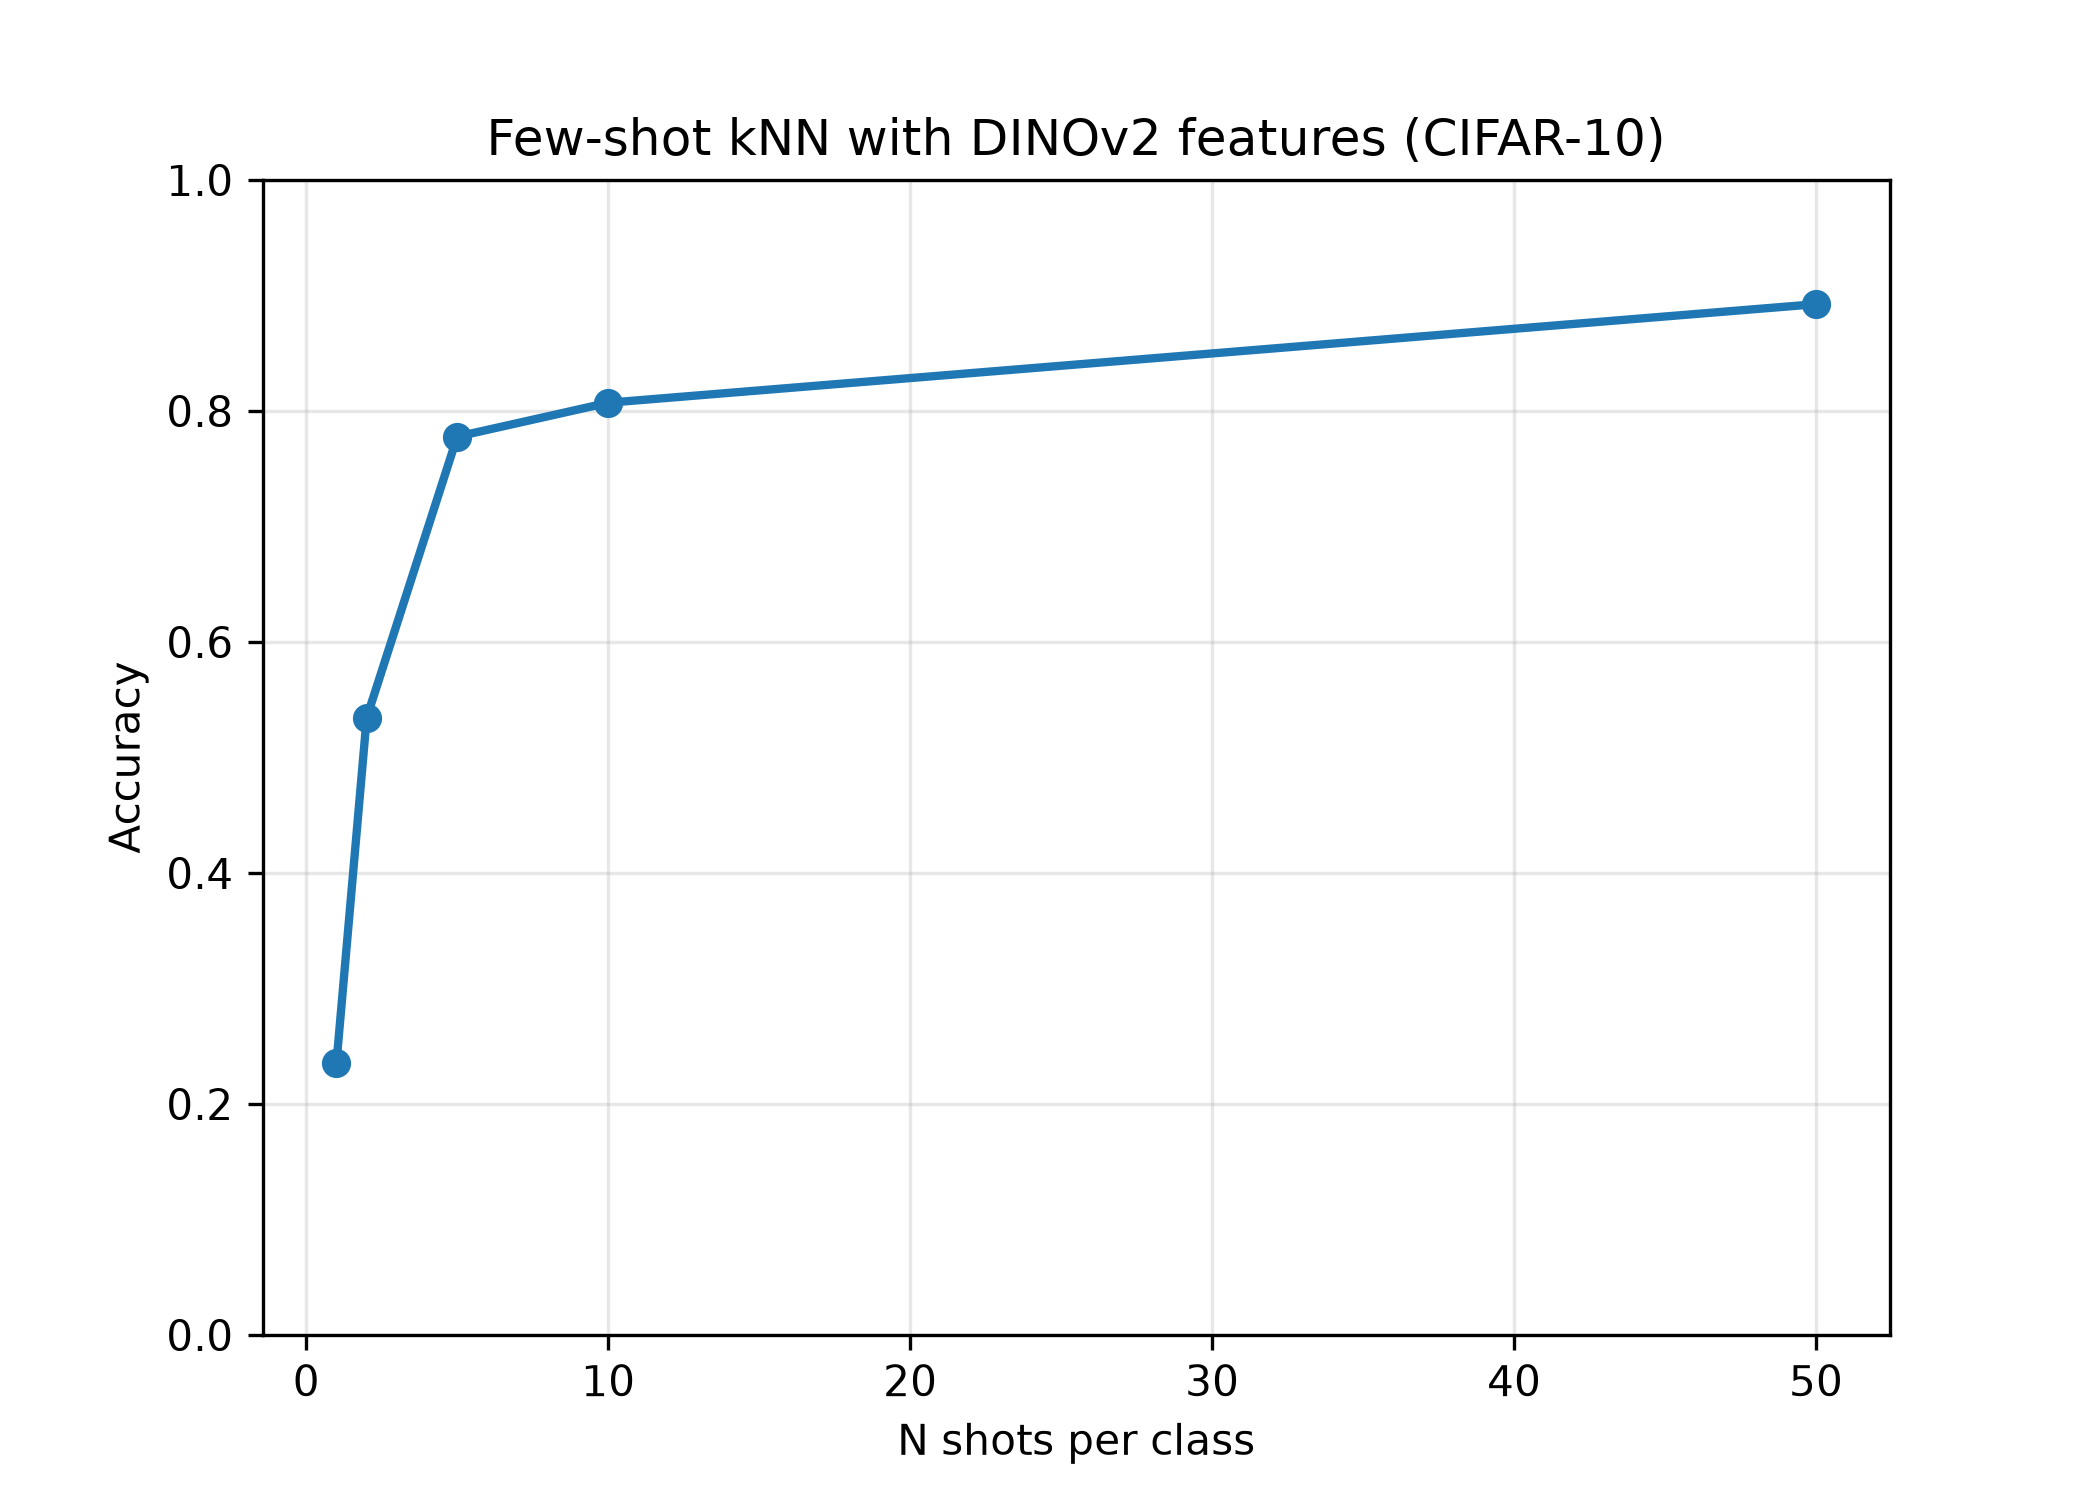
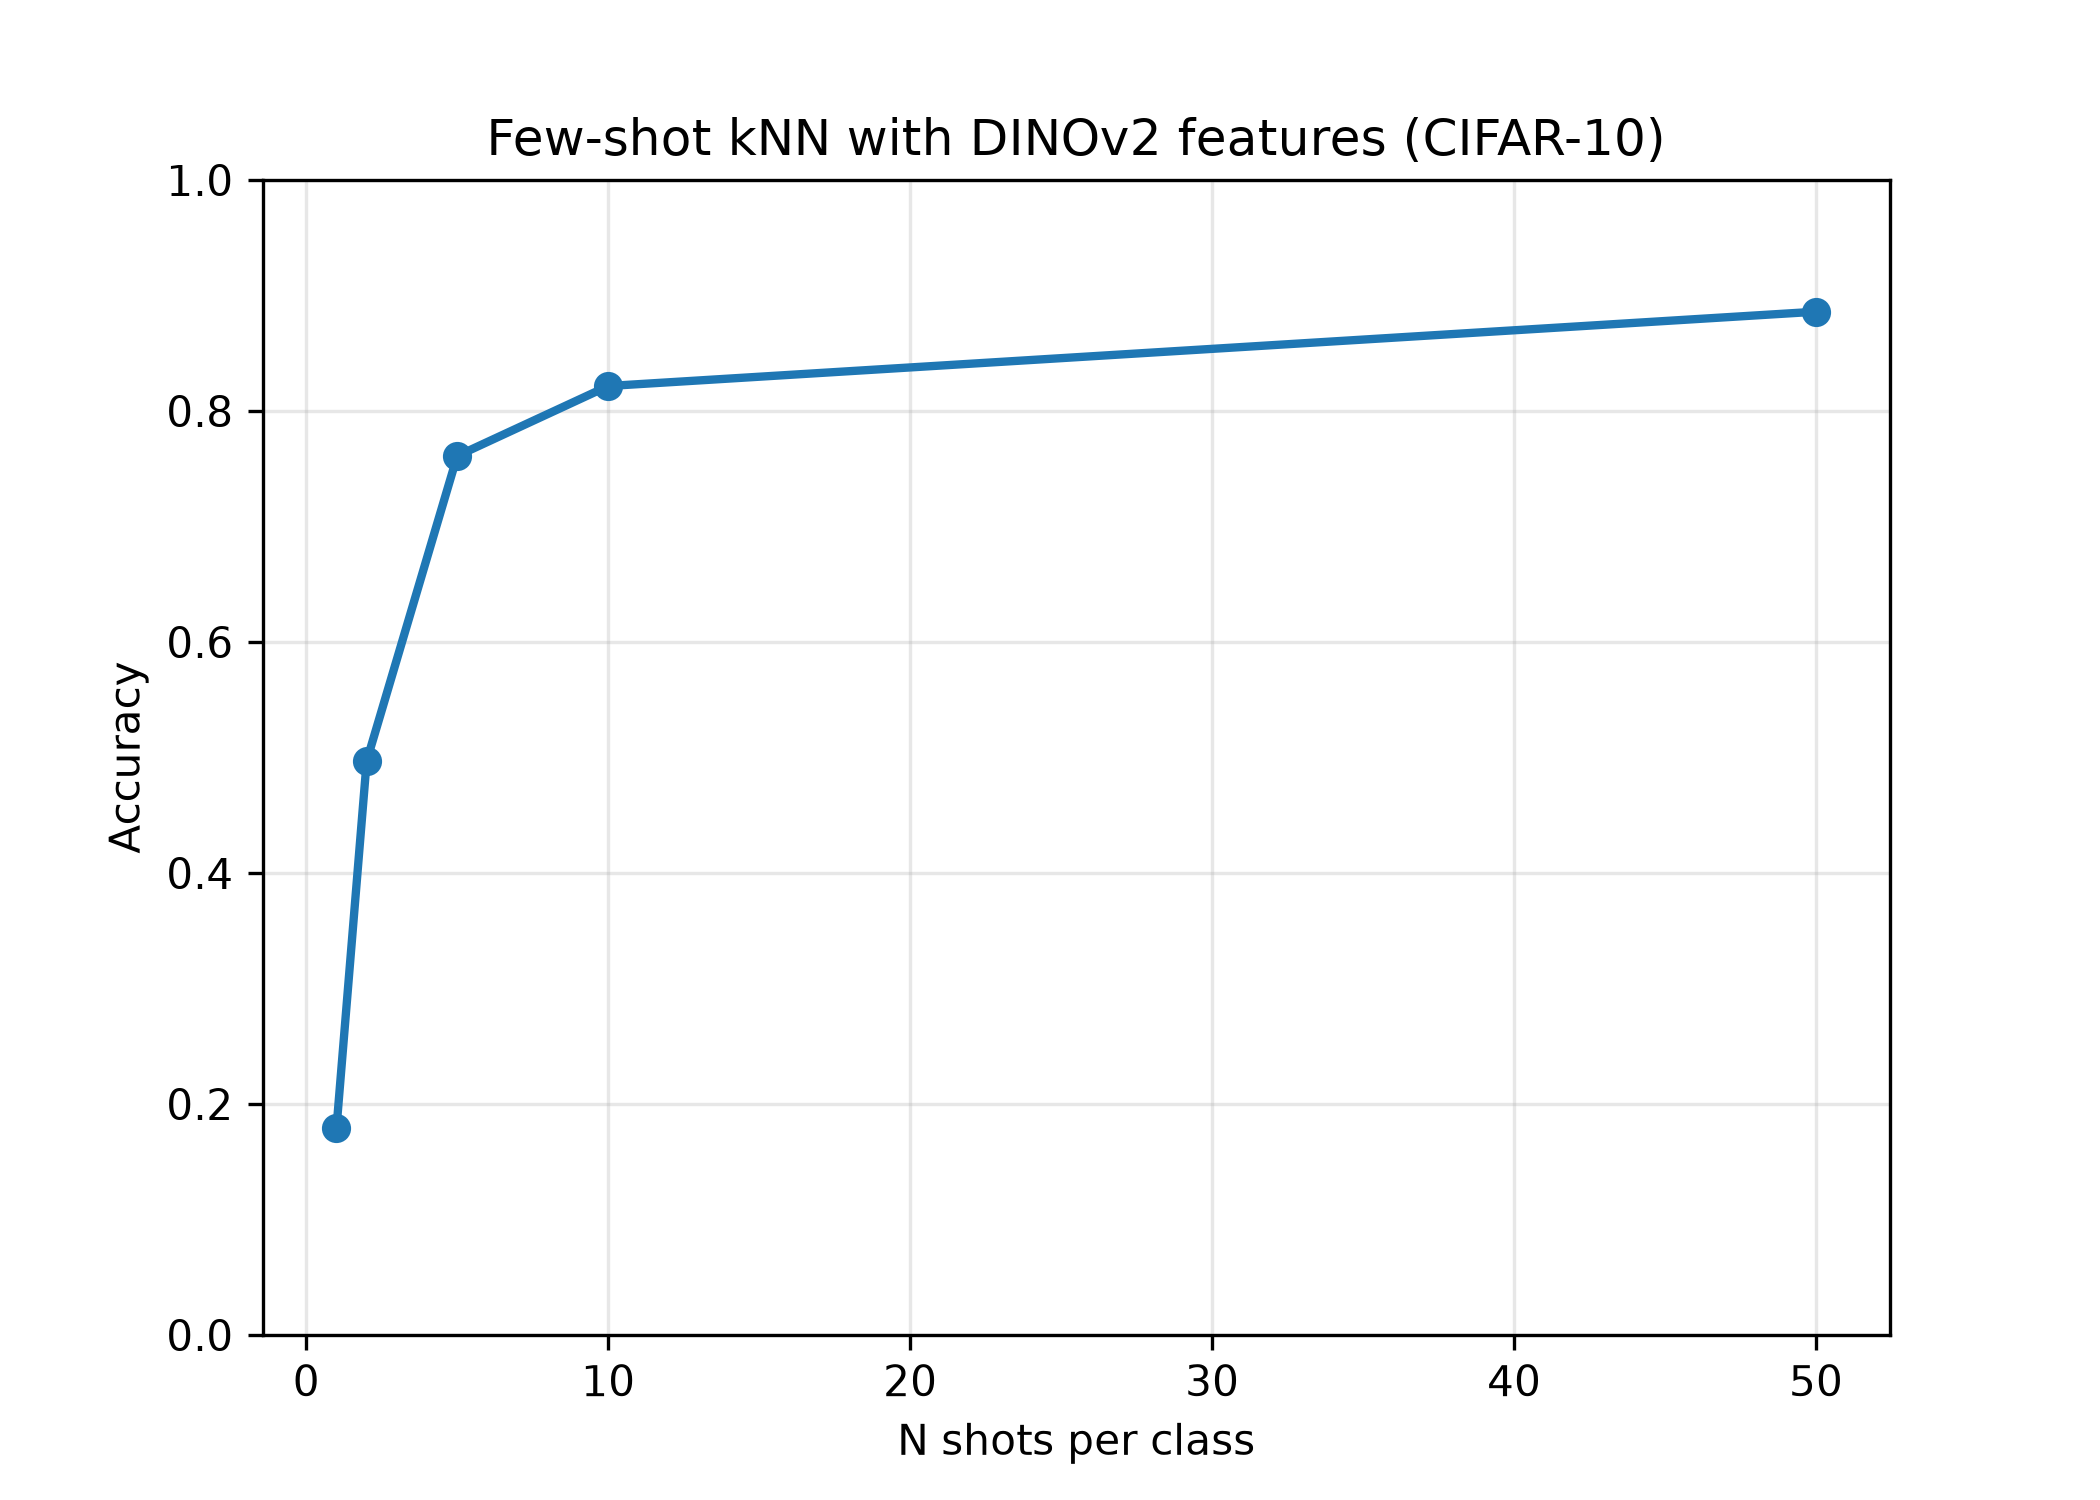
added gpu back to extraction, cpu is now an optional argument

diff --git a/src/extract.py b/src/extract.py
@@ -4,13 +4,18 @@ from torchvision import datasets, transforms
 from torch.utils.data import DataLoader
 from tqdm import tqdm
 
-from src.models import load_dinov2
+from models import load_dinov2
 
+import argparse
+
+parser = argparse.ArgumentParser()
+parser.add_argument("--device", type=str, default="cuda" if torch.cuda.is_available() else "cpu", help="Device to run on")
+args = parser.parse_args()
 
 # =========================
-# DEVICE (FORCED CPU)
+# DEVICE
 # =========================
-DEVICE = "cpu"
+DEVICE = args.device
 print("Device:", DEVICE)
 
 
@@ -44,9 +49,9 @@ test_ds_full = datasets.CIFAR10(
     transform=transform
 )
 
-# SMALL SAMPLE (CPU MODE)
-train_ds = torch.utils.data.Subset(train_ds_full, range(5000))
-test_ds = torch.utils.data.Subset(test_ds_full, range(2000))
+# FULL DATASET
+train_ds = train_ds_full
+test_ds = test_ds_full
 
 
 # =========================

diff --git a/src/evaluate_knn.py b/src/evaluate_knn.py
@@ -1,6 +1,6 @@
 import torch
-from src.plot import plot_results
-from src.knn import knn_predict, accuracy
+from plot import plot_results
+from knn import knn_predict, accuracy
 def sample_few_shot(features, labels, N, num_classes=10, seed=0):
 
     torch.manual_seed(seed)